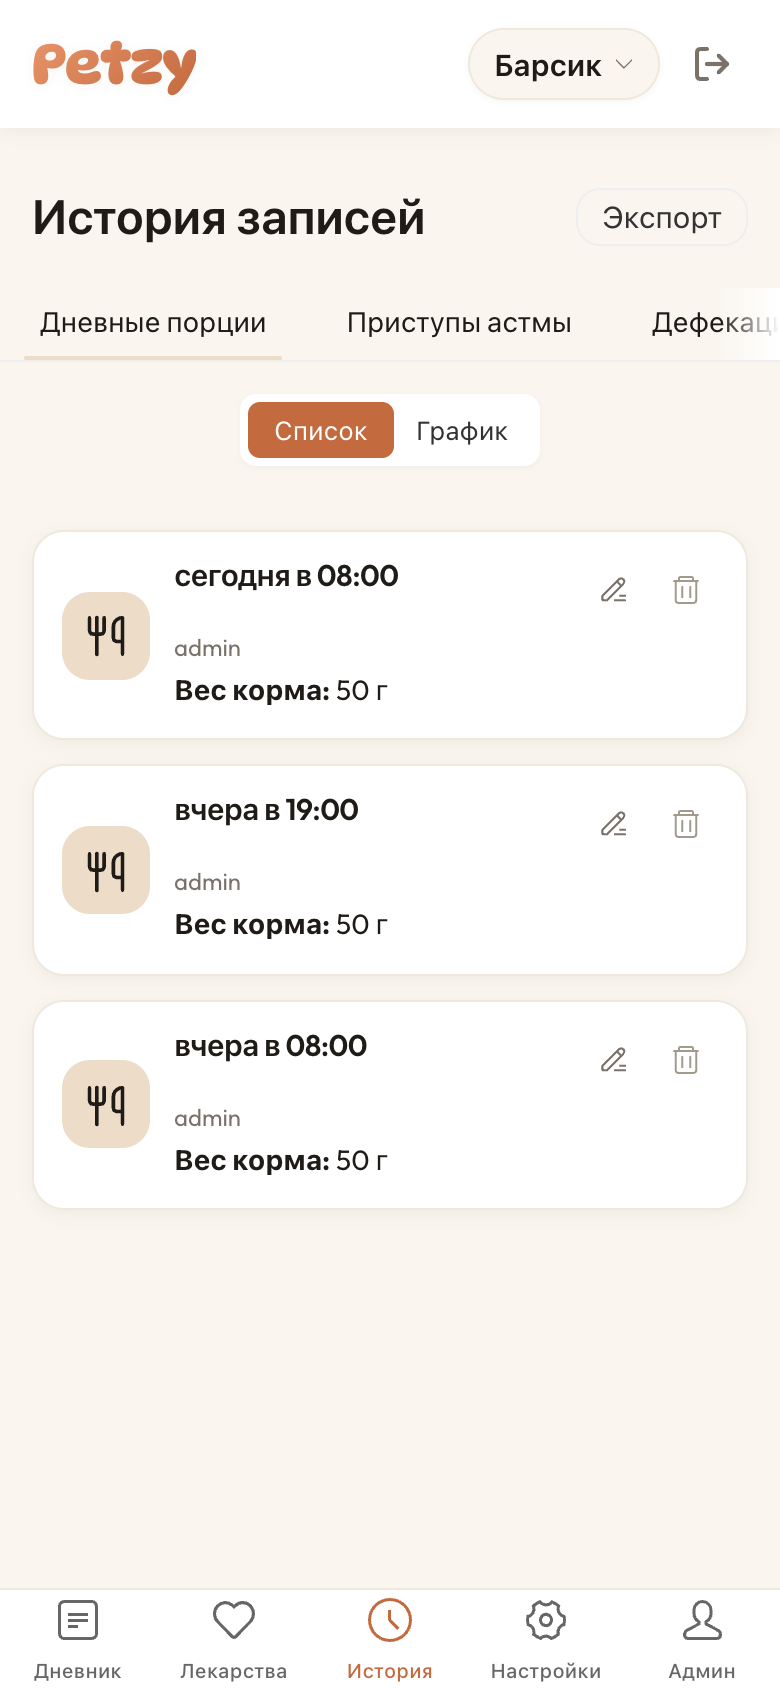
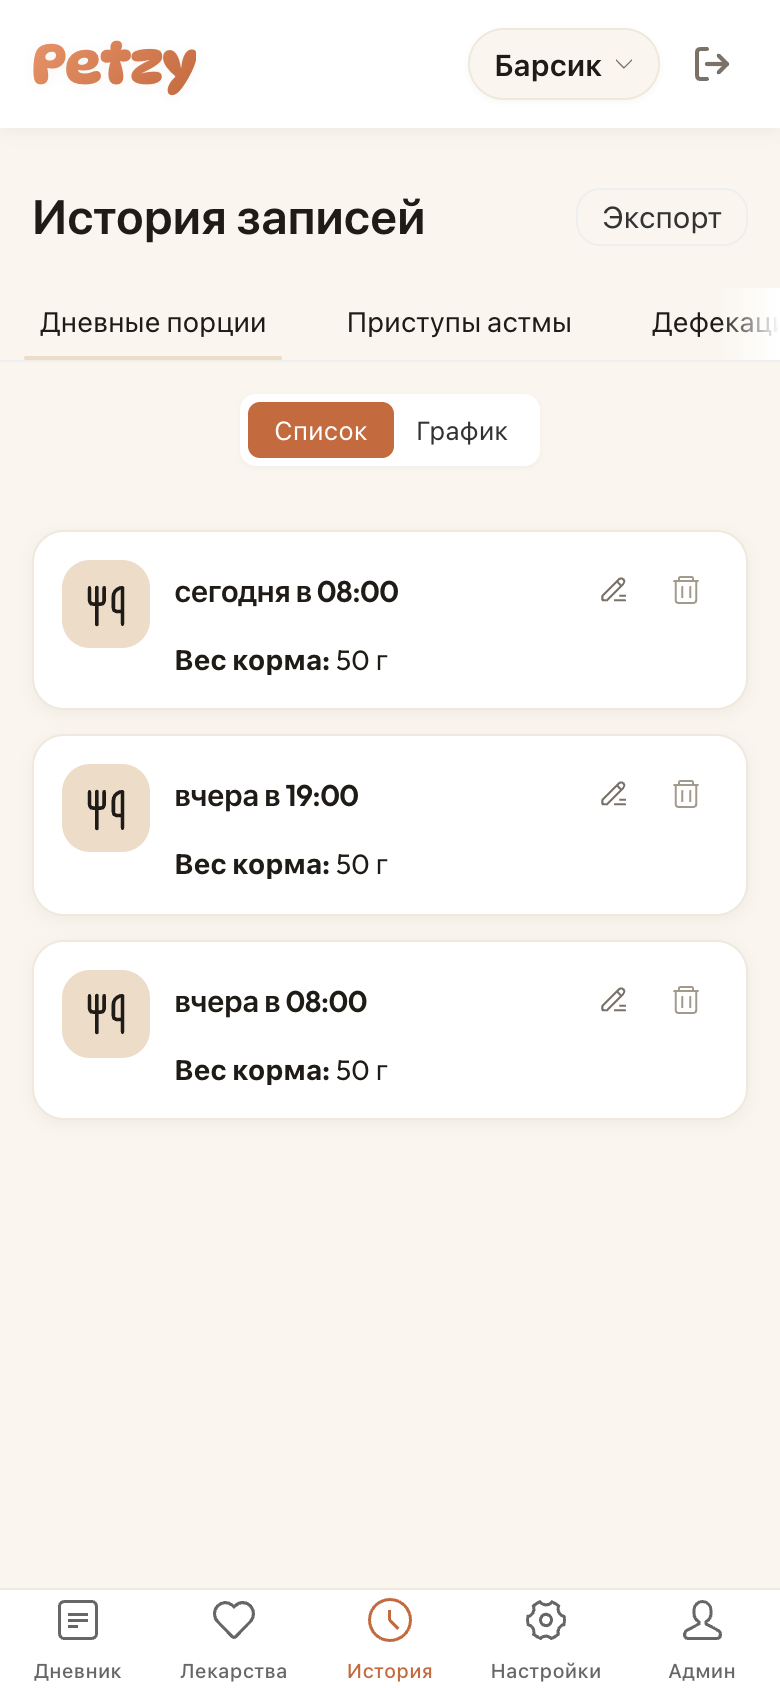
fix(ui): tidy HistoryItem rows — hide self-author, align pill to title
Three changes to make the timeline rows feel less busy:

1. HistoryItem row switches align-items back to flex-start so the
   pill-icon lines up with the title row. Centering made the title
   drift above the icon and the row looked unanchored.

2. Username chip is hidden when item.username matches the current
   user. Single-owner households (the seed scenario) used to see
   'admin' on every record, which was noise.

3. Body row gap 4 → 8px so the title, username and details have
   clear vertical separation.

The username-from-localStorage fix in useAuth was needed for #2 to
work: useAuth used a per-instance useState, so the username set by
Login's instance was never seen by HistoryItem's instance. Username
now reads/writes 'petzy:auth:username' in localStorage, which every
useAuth() call picks up on initial render.

Changed region(s): [[0.0615, 0.3081, 0.9231, 0.7085], [0.8615, 0.5545, 0.8923, 0.6469], [0.7692, 0.5853, 0.8, 0.6469]]

diff --git a/frontend/src/components/HistoryItem.tsx b/frontend/src/components/HistoryItem.tsx
@@ -7,6 +7,7 @@ import type { HistoryItem as HistoryItemType, HistoryTypeConfig } from '../utils
 import { formatRelativeDateTime } from '../utils/relativeTime';
 import { healthRecordsService } from '../services/healthRecords.service';
 import { pastelColorMap, typeIconMap, type HealthRecordType } from '../utils/constants';
+import { useAuth } from '../hooks/useAuth';
 
 interface HistoryItemProps {
   item: HistoryItemType;
@@ -18,9 +19,14 @@ interface HistoryItemProps {
 export const HistoryItem = memo(function HistoryItem({ item, config, type, activeTab }: HistoryItemProps) {
   const navigate = useNavigate();
   const queryClient = useQueryClient();
+  const { username: currentUsername } = useAuth();
   const pillBg = pastelColorMap[config.color] || 'var(--tile-blue)';
   const PillIcon = typeIconMap[type];
   const [deleteDialogVisible, setDeleteDialogVisible] = useState(false);
+
+  // Hide the author chip when the record was logged by the current user —
+  // single-owner households shouldn't see "admin" on every row.
+  const showAuthor = item.username && item.username !== currentUsername;
 
   const handleEdit = () => {
     // Pass item data via state to avoid extra API call
@@ -58,9 +64,10 @@ export const HistoryItem = memo(function HistoryItem({ item, config, type, activ
         className="card-soft"
         style={{
           display: 'flex',
-          // Pill-icon should sit on the visual centre of the row, not pinned
-          // to the top — otherwise it floats above the multi-line content.
-          alignItems: 'center',
+          // Pill-icon sits on the first text line (the title). Aligning
+          // with the row's vertical centre made the title drift above
+          // the icon and the row looked unanchored.
+          alignItems: 'flex-start',
           gap: '12px',
           padding: '14px',
         }}
@@ -75,9 +82,9 @@ export const HistoryItem = memo(function HistoryItem({ item, config, type, activ
         </div>
 
         {/* Body */}
-        <div style={{ flex: 1, minWidth: 0, display: 'flex', flexDirection: 'column', gap: '4px' }}>
+        <div style={{ flex: 1, minWidth: 0, display: 'flex', flexDirection: 'column', gap: '8px' }}>
           {/* Header row: date + actions */}
-          <div style={{ display: 'flex', justifyContent: 'space-between', alignItems: 'flex-start', gap: '8px' }}>
+          <div style={{ display: 'flex', justifyContent: 'space-between', alignItems: 'center', gap: '8px' }}>
             <span
               className="display-headline"
               style={{ fontSize: '15px', fontWeight: 600 }}
@@ -122,7 +129,7 @@ export const HistoryItem = memo(function HistoryItem({ item, config, type, activ
             </div>
           </div>
 
-          {item.username && (
+          {showAuthor && (
             <span style={{ fontSize: '12px', color: 'var(--app-text-secondary)' }}>
               {item.username}
             </span>

diff --git a/frontend/src/hooks/useAuth.ts b/frontend/src/hooks/useAuth.ts
@@ -5,11 +5,39 @@ import { authService } from '../services/auth.service';
 import { petsService } from '../services/pets.service';
 import type { LoginRequest } from '../services/auth.service';
 
+const USERNAME_STORAGE_KEY = 'petzy:auth:username';
+
+function readStoredUsername(): string | null {
+  try {
+    return localStorage.getItem(USERNAME_STORAGE_KEY);
+  } catch {
+    return null;
+  }
+}
+
+function writeStoredUsername(value: string | null) {
+  try {
+    if (value) localStorage.setItem(USERNAME_STORAGE_KEY, value);
+    else localStorage.removeItem(USERNAME_STORAGE_KEY);
+  } catch {
+    /* localStorage may be unavailable (private mode, SSR) — ignore */
+  }
+}
+
 export function useAuth() {
-  const [username, setUsername] = useState<string | null>(null);
+  // Username is shared between all components via localStorage. The
+  // tokens live in HttpOnly cookies so JS can't read them, but the
+  // human-readable username is fine in localStorage and lets every
+  // useAuth() instance see the same value without prop-drilling.
+  const [username, setUsernameState] = useState<string | null>(() => readStoredUsername());
   const navigate = useNavigate();
   const queryClient = useQueryClient();
   const location = useLocation();
+
+  const setUsername = (value: string | null) => {
+    writeStoredUsername(value);
+    setUsernameState(value);
+  };
 
   // Check if we're on the login page using React Router location
   const isLoginPage = useMemo(() => {
